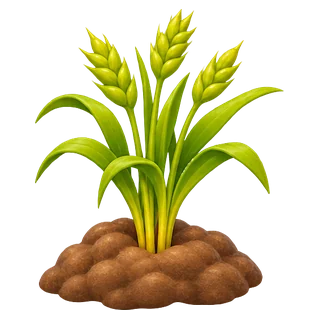
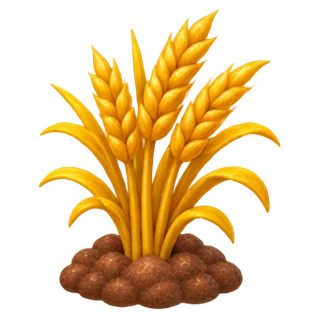
Remplace le blé mûr et les récoltes de potiron et tournesol (0.7.7)
- Blé mûr doré, potiron et tournesol récoltés sans terre
- Script : fichiers override-<plante>-<image>.png pour remplacer une
  seule image d'une planche (morceaux voisins sur les bords retirés)

Claude-Session: https://claude.ai/code/session_018D5HKJWKwN88xpAGuhHMQJ

diff --git a/index.html b/index.html
@@ -6,12 +6,12 @@
   <title>Petit Potager</title>
   <meta name="description" content="Un petit jeu idle de potager : plante, arrose, récolte, cuisine et découvre des variétés hybrides.">
   <meta name="theme-color" content="#f2f9e6" id="theme-color">
-  <link rel="manifest" href="manifest.webmanifest?v=14">
+  <link rel="manifest" href="manifest.webmanifest?v=15">
   <link rel="icon" href="icons/icon.svg" type="image/svg+xml">
   <link rel="icon" href="icons/icon-192.png" sizes="192x192" type="image/png">
   <link rel="preload" href="fonts/nunito-latin.woff2" as="font" type="font/woff2" crossorigin>
   <link rel="preload" href="fonts/fredoka-latin.woff2" as="font" type="font/woff2" crossorigin>
-  <link rel="stylesheet" href="css/style.css?v=14">
+  <link rel="stylesheet" href="css/style.css?v=15">
 </head>
 <body>
 <div id="app">
@@ -40,9 +40,9 @@
 <div id="fx"></div>
 <div id="toasts" aria-live="polite"></div>
 
-<script src="js/data.js?v=14"></script>
-<script src="assets/img/manifest.js?v=14"></script>
-<script src="js/art.js?v=14"></script>
-<script src="js/game.js?v=14"></script>
+<script src="js/data.js?v=15"></script>
+<script src="assets/img/manifest.js?v=15"></script>
+<script src="js/art.js?v=15"></script>
+<script src="js/game.js?v=15"></script>
 </body>
 </html>

diff --git a/js/game.js b/js/game.js
@@ -1,7 +1,7 @@
 "use strict";
 /* Numéro de version affiché dans les Paramètres.
    À chaque mise à jour : changer APP_VERSION, le ?v= dans index.html et VERSION dans sw.js. */
-const APP_VERSION = "0.7.6";
+const APP_VERSION = "0.7.7";
 /* ---------------- Helpers ---------------- */
 const $ = s => document.querySelector(s);
 const now = () => Date.now();

diff --git a/sw.js b/sw.js
@@ -1,6 +1,6 @@
 /* Service worker du Petit Potager : rend le jeu jouable hors-ligne.
    À chaque mise à jour du jeu, augmente VERSION pour que les téléphones téléchargent la nouvelle version. */
-const VERSION = "potager-v14";
+const VERSION = "potager-v15";
 const FILES = [
   "./",
   "index.html",

diff --git a/tools/process_images.py b/tools/process_images.py
@@ -7,6 +7,8 @@
   -> assets/img/<plante>-0..3.webp (stades), <plante>-crop.webp, <plante>-seeds.webp
 - dish-<recette>.png, ui-<nom>.png : une image par fichier
   -> assets/img/dish-<recette>.webp, ui-<nom>.webp
+- override-<plante>-<0..3|crop|seeds>.png : remplace une image d'une planche
+  (ex. override-ble-3.png pour le blé mûr)
 - Écrit assets/img/manifest.js pour que le jeu sache quelles images existent.
 
 Usage : python3 tools/process_images.py  (nécessite Pillow, numpy et scipy)
@@ -94,7 +96,7 @@ LAYOUT = {
 }
 
 
-def split_sheet(sheet):
+def split_sheet(sheet, rows=2):
     """Repère les objets de la planche et les renvoie dans l'ordre de lecture.
     Chaque gros objet est une vignette ; les petits morceaux détachés (graines,
     feuilles tombées…) sont rattachés au gros objet le plus proche."""
@@ -117,7 +119,7 @@ def split_sheet(sheet):
             dx = max(sl[1].start - cx, 0, cx - sl[1].stop)
             return dx * dx + dy * dy
         groups[min(big, key=gap)].append(i)
-    order = sorted(big, key=lambda i: (centers[i - 1][0] >= H / 2, centers[i - 1][1]))
+    order = sorted(big, key=lambda i: (min(rows - 1, int(centers[i - 1][0] // (H / rows))), centers[i - 1][1]))
     cells = []
     for i in order:
         out = arr.copy()
@@ -125,6 +127,32 @@ def split_sheet(sheet):
         im = Image.fromarray(out, "RGBA")
         cells.append(im.crop(bbox(im)))
     return cells
+
+
+def drop_border_pieces(im):
+    """Retire les morceaux coupés qui touchent le bord (bouts d'objets voisins sur une capture)."""
+    arr = np.array(im)
+    labels, _ = ndimage.label(arr[:, :, 3] > 0, structure=np.ones((3, 3)))
+    border = np.unique(np.concatenate([labels[0], labels[-1], labels[:, 0], labels[:, -1]]))
+    arr[:, :, 3] = np.where(np.isin(labels, border[border > 0]), 0, arr[:, :, 3])
+    return Image.fromarray(arr, "RGBA")
+
+
+STAGE3_HEIGHT = {}  # hauteur du stade mûr de chaque planche, pour caler les remplacements
+
+
+def process_override(path, target):
+    """override-<plante>-<0..3|crop|seeds>.png : remplace une seule image d'une planche."""
+    im = drop_border_pieces(clean(load(path)))
+    obj = im.crop(bbox(im))
+    key, part = target.rsplit("-", 1)
+    if part.isdigit():
+        h = STAGE3_HEIGHT.get(key, SIZE * 0.94)
+        scale = min(h / obj.height, SIZE * 0.94 / max(obj.size))
+        save(place(obj, scale, anchor_bottom=True), f"{target}.webp")
+    else:
+        save(icon(obj), f"{target}.webp")
+    print(f"Remplacé : {target}")
 
 
 def process_sheet(path, key):
@@ -141,6 +169,7 @@ def process_sheet(path, key):
     scale = min(SIZE * 0.94 / max(o.size) for o in objs)
     for i, o in enumerate(objs):
         save(place(o, scale, anchor_bottom=True), f"{key}-{i}.webp")
+    STAGE3_HEIGHT[key] = objs[3].height * scale
     save(icon(cells[lay["crop"]]), f"{key}-crop.webp")
     save(icon(cells[lay["seeds"]]), f"{key}-seeds.webp")
     return True
@@ -161,8 +190,12 @@ def main():
         elif name.startswith("ui-"):
             save(icon(clean(load(path))), f"{name}.webp")
             found["ui"].append(name[3:])
+        elif name.startswith("override-"):
+            continue  # traité après les planches
         else:
             print(f"Ignoré (nom non reconnu) : {path.name}")
+    for path in sorted(RAW.glob("override-*.png")):
+        process_override(path, path.stem[len("override-"):])
     (OUT / "manifest.js").write_text(
         "/* Généré par tools/process_images.py : liste des images disponibles. */\n"
         f"window.IMG = {json.dumps(found, ensure_ascii=False)};\n", encoding="utf-8")
